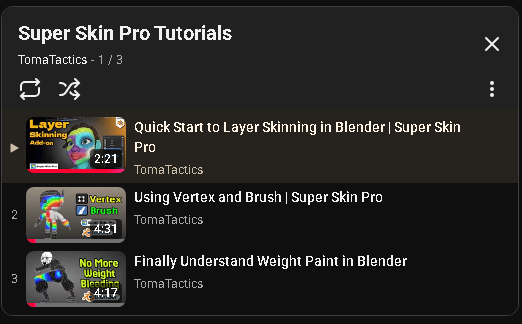
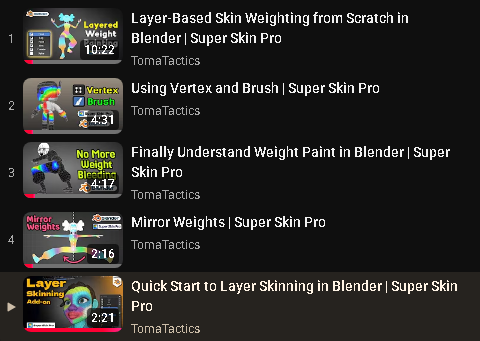
Update Docs

diff --git a/docs/stylesheets/extra.css b/docs/stylesheets/extra.css
@@ -33,3 +33,22 @@ kbd {
   font-size: 85%;
   padding: 1px 6px;
 }
+
+/* Sidebar logo (top left): adjust margin / size here */
+.wy-side-nav-search > a img.logo {
+  margin: 0 auto 0.2em;  /* top | left-right | bottom */
+  max-width: 100%;
+}
+
+/* Logo link: theme adds margin-bottom .809em and inline-block line gap
+   below it -- remove so the logo sits right above the search bar */
+.wy-side-nav-search > a {
+  display: block;
+  margin-bottom: 0.4em;  /* gap between logo and search bar */
+  padding: 0;
+}
+
+/* Blue box around the logo + search (theme default padding: .809em) */
+.wy-side-nav-search {
+  padding: 0.2em 0.809em 0.4em;  /* top | left-right | bottom */
+}

diff --git a/docs/skinning_tab.md b/docs/skinning_tab.md
@@ -1,11 +1,16 @@
-You can watch a quick tutorial on [Super Skin Pro Tutorials Playlist](https://www.youtube.com/playlist?list=PLe-1umuorC5Q)
+# Quick Start
+For a quick guide on how to use the add-on, watching all the videos in this playlist should be more than enough to get you started:
+
+[👉 Watch Super Skin Pro Tutorials Playlist](https://www.youtube.com/playlist?list=PLe-1umuorC5Q)
 
 <figure markdown>
-![Edit Tools](assets/images/playlist.png)
+  ![Edit Tools](assets/images/playlist.png)
+  <figcaption>Super Skin Pro YouTube Tutorial Playlist by tomatactics</figcaption>
 </figure>
 
 In the next section below, we’ll take an in-depth look at the interface and its features.
 
+- - -
 
 # Interface Overview
 
@@ -15,72 +20,65 @@ In the next section below, we’ll take an in-depth look at the interface and it
 
 
 
-**Active Bind Mesh**
+#### 1) Active Bind Mesh
 
-Displays the currently selected mesh. You can bake its layer data via [Bake Layer Data to Blender Native](bindmesh.md)
-- - -
-
-**Mode Toggle**
-
-Quick buttons for switching between
-
-- Object Mode
-- Paint Weight (Brush)
-- Paint Weight (Vertex)
-- Pose modes.
+Displays the currently selected mesh and provides the option to [Bake Layer Data to Blender Native](bindmesh.md).
 
 - - -
 
 
-### Layer & Bone List
-
-<figure markdown="span">
-  ![Layer and Bone List](assets/images/deform_bone_list.png)
-</figure>
-
-#### Layer List (Top)
+#### 2) Layer List 
 
 Displays all skin weight layers. You can add, delete, reorder, duplicate, merge, and toggle the visibility of each layer. [Watch Layer Tutorial](https://youtu.be/PYMJwbvAdoY)
 
-* **Enable / Disable:** Toggle layer activation by clicking the icon in front of the layer item.
-* **Rename:** Double-click the layer name to rename it.
+- **Enable / Disable:** Toggle layer activation by clicking the icon in front of the layer item.
+- **Rename:** Double-click the layer name to rename it.
 
-#### Bone List (Bottom)
+- - -
+
+#### 3) Bone List 
 
 Displays the active deform bones for the selected layer.
 
-* **Lock / Unlock:** Click the lock icon in front of any bone to prevent [weight bleeding](https://youtu.be/B4HqxA83n0k).
-* **Focus Viewport:** Double-click a bone to focus on it in the 3D viewport.
-* **Filter Influenced Bones:** Toggle via the button in the right menu to display only bones with weights.
+- **Lock / Unlock:** Click the lock icon in front of any bone to prevent [weight bleeding](https://youtu.be/B4HqxA83n0k).
+- **Focus Viewport:** Double-click a bone to focus on it in the 3D viewport.
+- **Filter Influenced Bones:** Toggle via the button in the right menu to display only bones with weights.
 
-In Weight Paint Mode, instead of selecting bones from the list, you can [select bones in the viewport.](bone_picker.md)
 
-#### Useful Shortcuts
+Notes:
 
-In the bone and layer list, you can use the following shortcuts:
+1. In Weight Paint Mode, you can [select bones through the viewport](bone_picker.md).
 
-* <kbd>Ctrl</kbd> + <kbd>Click</kbd>: Add or remove items individually
-* <kbd>Shift</kbd> + <kbd>Click</kbd>: Select a range of items
-* <kbd>Ctrl</kbd> + <kbd>A</kbd> or <kbd>Alt</kbd> + <kbd>Shift</kbd> + <kbd>Click</kbd> : Select all items in the list.
-* <kbd>Ctrl</kbd> + <kbd>I</kbd>: Invert selection
+2. Both the bone and layer lists support the following shortcuts:
 
+<kbd>Ctrl</kbd> + <kbd>Click</kbd>: Add or remove items individually
+
+<kbd>Shift</kbd> + <kbd>Click</kbd>: Select a range of items
+
+<kbd>Ctrl</kbd> + <kbd>A</kbd> or <kbd>Alt</kbd> + <kbd>Shift</kbd> + <kbd>Click</kbd>: Select all items in the list
+
+<kbd>Ctrl</kbd> + <kbd>I</kbd>: Invert selection
 
 - - -
 
 
-### Object Mode Tools
+#### 4) Mode Switcher
 
-For more details, see [Object Mode Tools](object_tools.md).
+Quick buttons for switching between Object Mode, Weight Paint (Brush), Weight Paint (Vertex Selection), and Pose Mode.
+
+- - -
+
+#### 5) Mode Tools
+
+Tools available for each mode:
+
+[👉 Read More Details on Object Mode Tools](object_tools.md)
 
 <figure markdown>
   ![Object Mode Tools](assets/images/object_tools.png)
 </figure>
 
----
-
-### Weight Paint Mode Tools
-
-For more details, see [Weight Paint Mode Tools](edit_tools.md).
+[👉 Read More Details on Weight Paint Mode Tools](edit_tools.md)
 
 <figure markdown>
   ![Weight Paint Mode Tools](assets/images/apply_weights.png)
